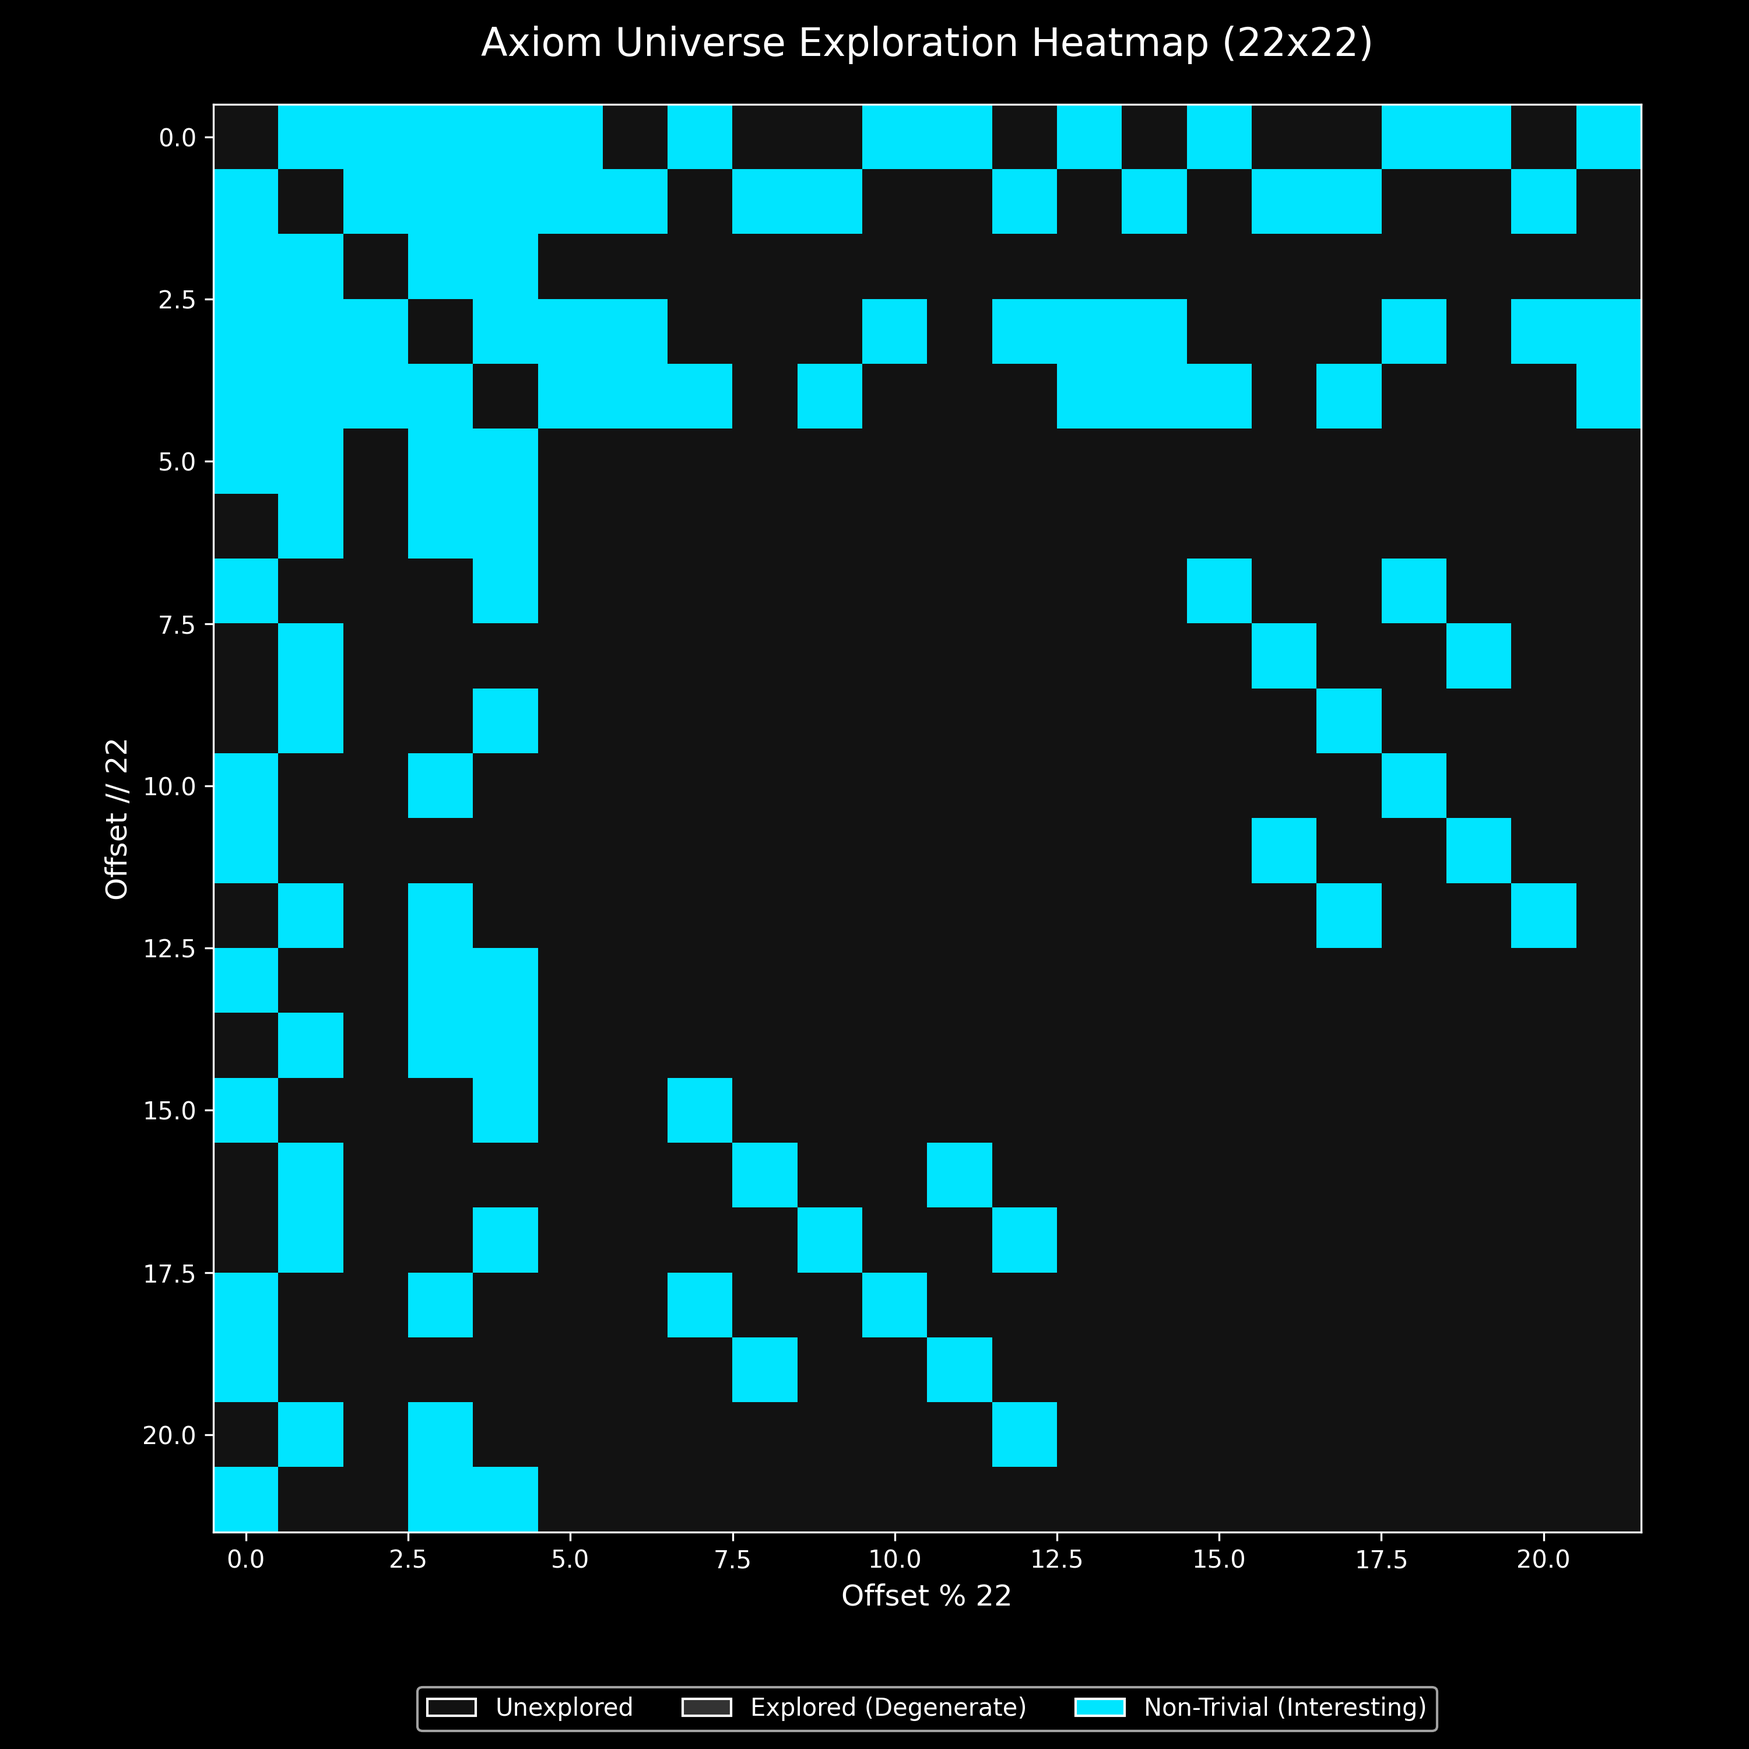
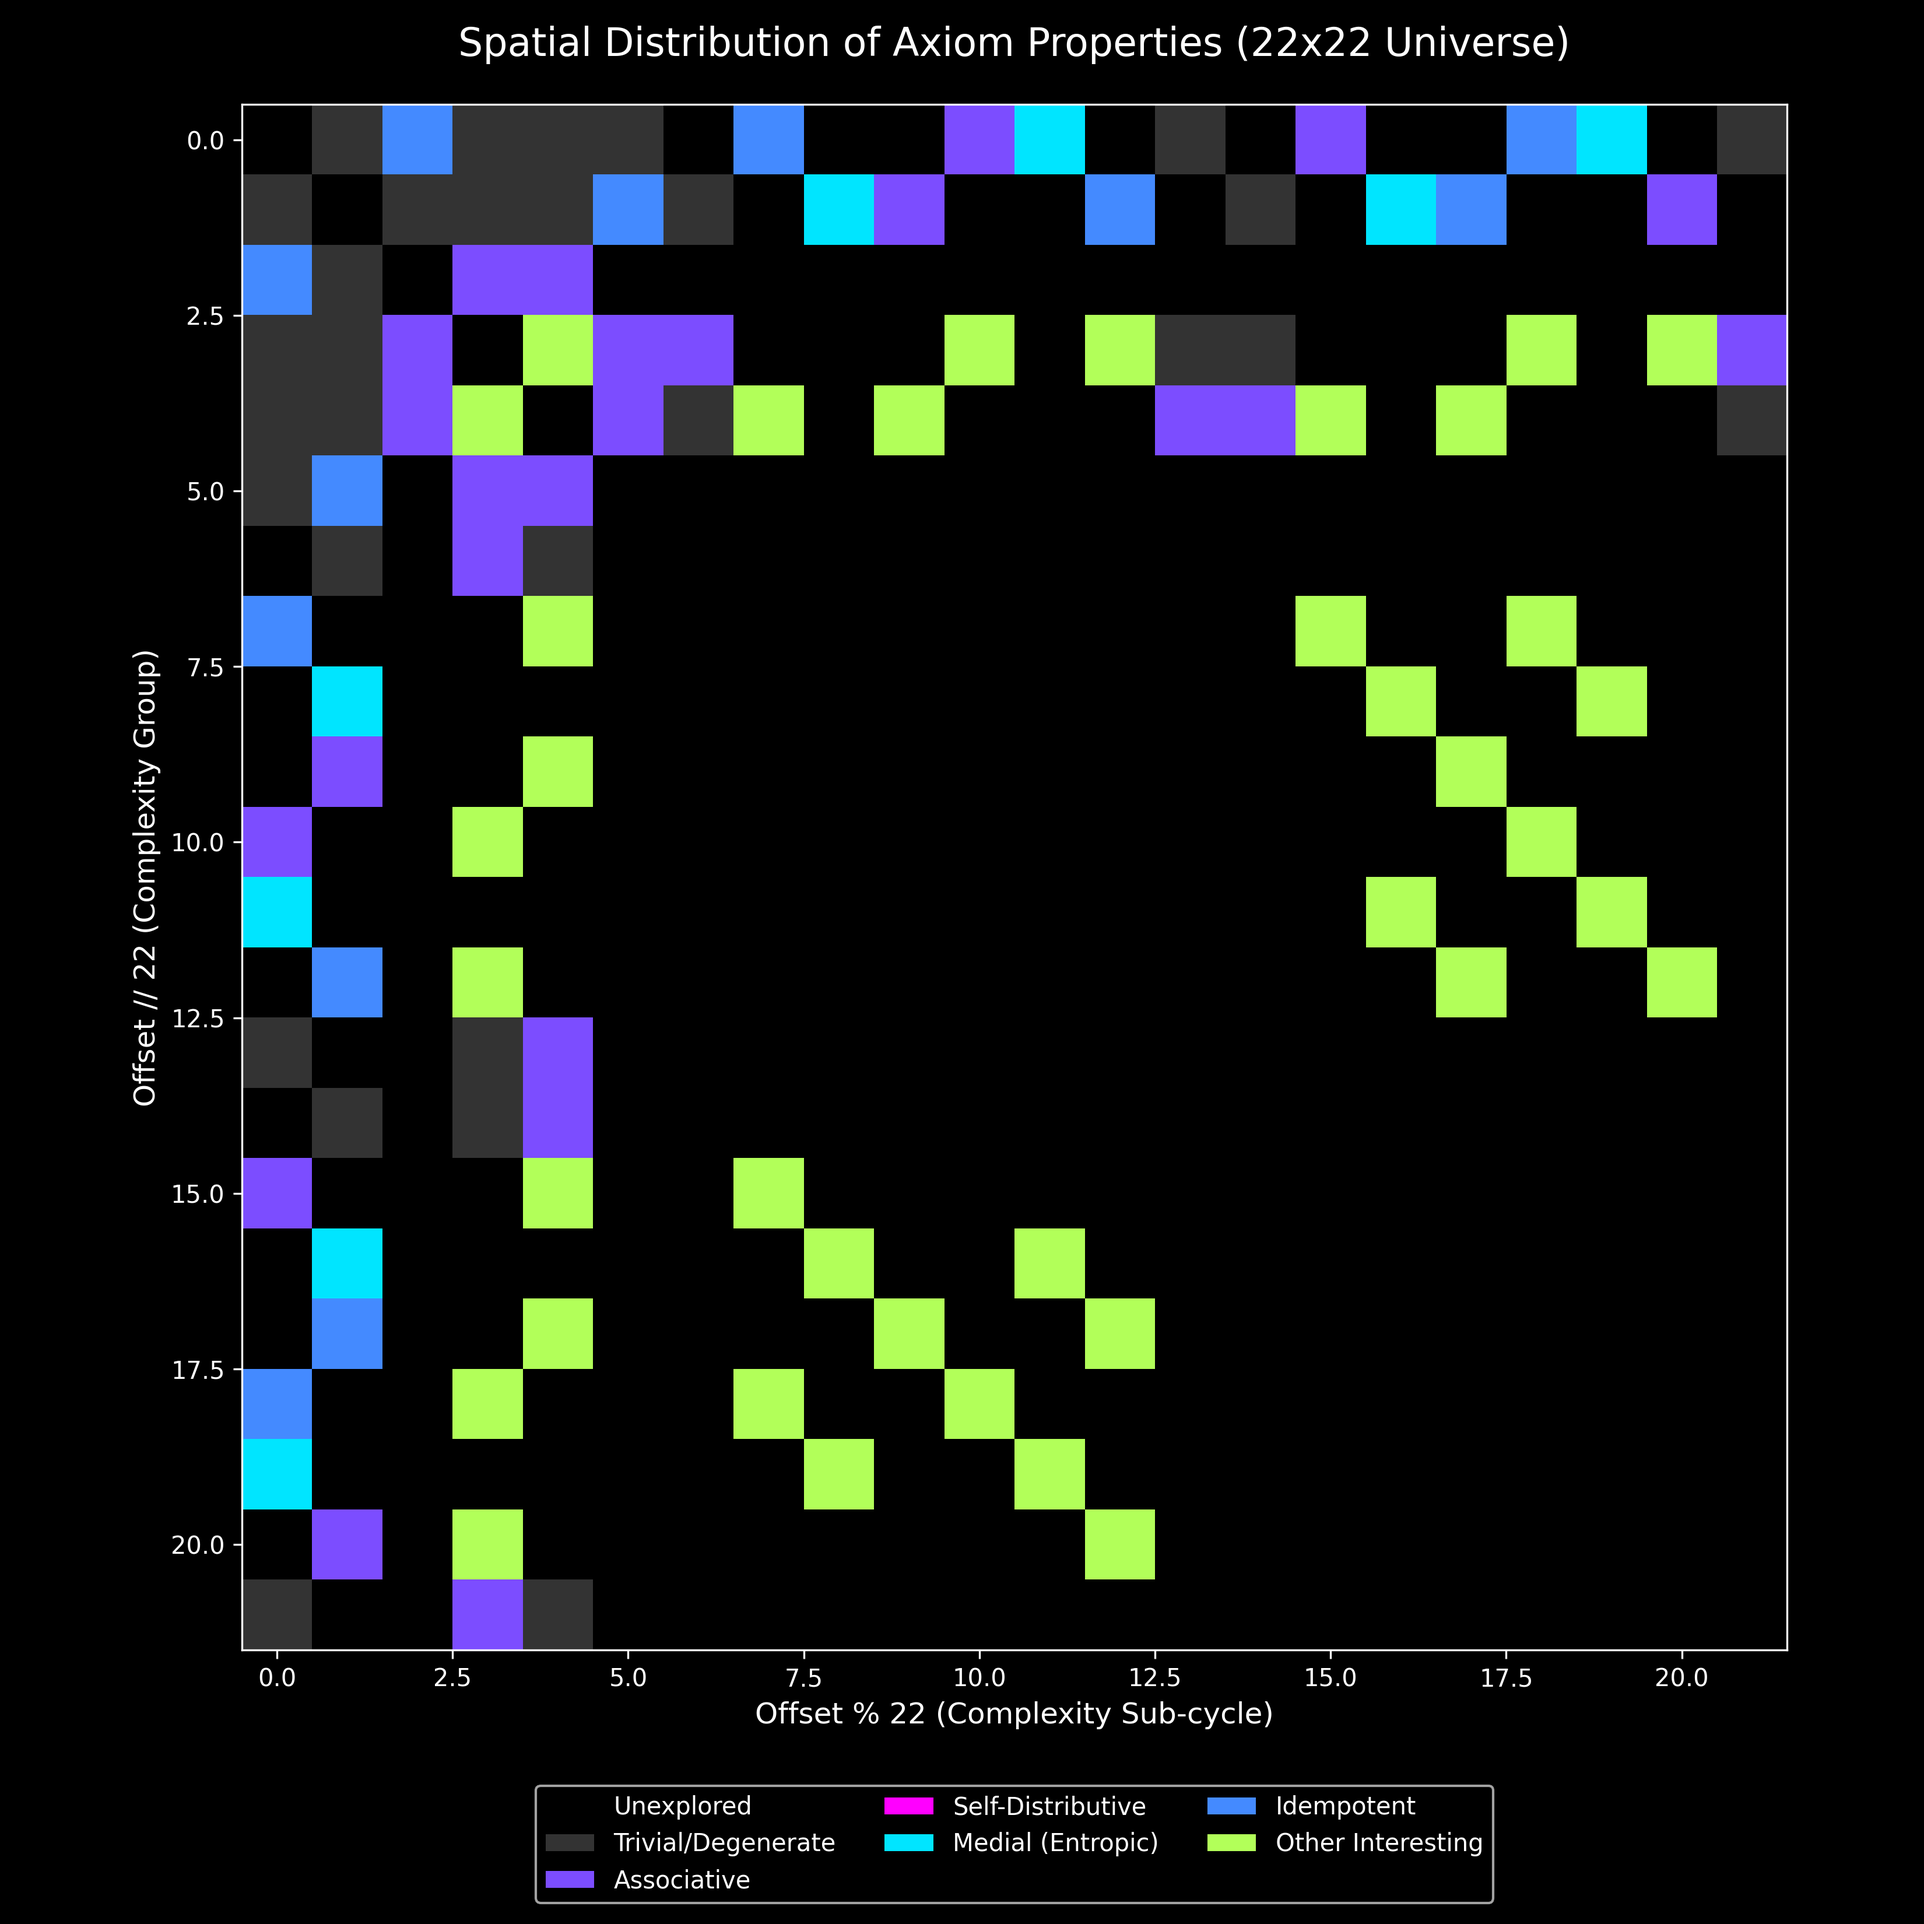
Upgrade heatmap to show categorical property distribution

diff --git a/reports/generate_heatmap.py b/reports/generate_heatmap.py
@@ -8,7 +8,6 @@ import os
 def generate_heatmap(root_dir, output_path):
     # 1. Build Axiom -> Index mapping from agent_log
     axiom_to_index = {}
-    explored_indices = set()
     
     log_path = Path(root_dir) / "agent_log.jsonl"
     if log_path.exists():
@@ -22,12 +21,32 @@ def generate_heatmap(root_dir, output_path):
                             ax_str = f"{ax['left']} = {ax['right']}"
                             idx = offset + i
                             axiom_to_index[ax_str] = idx
-                            explored_indices.add(idx)
                 except:
                     continue
 
-    # 2. Identify Non-Trivial Axioms from results.jsonl
-    interesting_indices = set()
+    # 2. Identify Explored and Categorize Interesting Indices
+    # 0: Unexplored, 1: Trivial/Degenerate, 2: Associative, 3: Self-Dist, 4: Medial, 5: Idempotent, 6: Other
+    grid_data = np.zeros(484)
+    explored_indices = set()
+    
+    if log_path.exists():
+        with open(log_path, 'r') as f:
+            for line in f:
+                try:
+                    data = json.loads(line)
+                    if data.get('event') == 'select':
+                        for ax in data['axioms']:
+                            ax_str = f"{ax['left']} = {ax['right']}"
+                            if ax_str in axiom_to_index:
+                                grid_data[axiom_to_index[ax_str]] = 1
+                    if data.get('event') == 'interpret':
+                        ax = data['axiom']
+                        ax_str = f"{ax['left']} = {ax['right']}"
+                        if ax_str in axiom_to_index:
+                            grid_data[axiom_to_index[ax_str]] = 1
+                except:
+                    continue
+
     root_path = Path(root_dir)
     for res_file in root_path.glob("**/results.jsonl"):
         with open(res_file, 'r') as f:
@@ -35,60 +54,65 @@ def generate_heatmap(root_dir, output_path):
                 try:
                     data = json.loads(line)
                     dossier = data.get('dossier', data)
-                    ax_str = f"{dossier['axiom']['left']} = {dossier['axiom']['right']}"
+                    ax = dossier['axiom']
+                    ax_str = f"{ax['left']} = {ax['right']}"
                     
-                    # Extract confirmed properties
+                    if ax_str not in axiom_to_index: continue
+                    idx = axiom_to_index[ax_str]
+
                     confirmed = []
                     if 'properties' in dossier:
                         confirmed = [p['name'] for p in dossier['properties'] if p.get('status') == 'confirmed']
                     elif 'implications' in dossier:
                         confirmed = [i['theory'] for i in dossier['implications'] if i.get('status') == 'confirmed']
                     
-                    if confirmed and ax_str in axiom_to_index:
-                        interesting_indices.add(axiom_to_index[ax_str])
+                    if not confirmed:
+                        grid_data[idx] = 1 # Mark as trivial
+                        continue
+
+                    # Precedence: Associative > Self-Dist > Medial > Idempotent > Other
+                    if 'associative' in confirmed: grid_data[idx] = 2
+                    elif 'left_self_distributive' in confirmed or 'right_self_distributive' in confirmed: grid_data[idx] = 3
+                    elif 'medial' in confirmed: grid_data[idx] = 4
+                    elif 'idempotent' in confirmed: grid_data[idx] = 5
+                    else: grid_data[idx] = 6
                 except:
                     continue
 
     # 3. Construct 22x22 Grid
-    # 0 = Unexplored, 1 = Explored (Trivial), 2 = Interesting
-    grid = np.zeros((22, 22))
-    for idx in range(484):
-        r, c = divmod(idx, 22)
-        if idx in interesting_indices:
-            grid[r, c] = 2
-        elif idx in explored_indices:
-            grid[r, c] = 1
-        else:
-            grid[r, c] = 0
+    grid = grid_data.reshape((22, 22))
 
     # 4. Plot Heatmap
-    plt.figure(figsize=(10, 10))
+    plt.figure(figsize=(11, 11))
     plt.style.use('dark_background')
     
-    # Custom colormap: Black (Unexplored), Gray (Trivial), Cyan (Interesting)
     from matplotlib.colors import ListedColormap
-    cmap = ListedColormap(['#121212', '#333333', '#00E5FF'])
+    # Colors: Black, Gray, Purple (Assoc), Magenta (Dist), Cyan (Medial), Blue (Idem), Green (Other)
+    colors = ['#000000', '#333333', '#7C4DFF', '#FF00FF', '#00E5FF', '#448AFF', '#B2FF59']
+    cmap = ListedColormap(colors)
     
     plt.imshow(grid, cmap=cmap, interpolation='nearest')
     
-    # Add title and labels
-    plt.title("Axiom Universe Exploration Heatmap (22x22)", fontsize=16, pad=20)
-    plt.xlabel("Offset % 22", fontsize=12)
-    plt.ylabel("Offset // 22", fontsize=12)
+    plt.title("Spatial Distribution of Axiom Properties (22x22 Universe)", fontsize=16, pad=20)
+    plt.xlabel("Offset % 22 (Complexity Sub-cycle)", fontsize=12)
+    plt.ylabel("Offset // 22 (Complexity Group)", fontsize=12)
     
-    # Add legend
     from matplotlib.patches import Patch
     legend_elements = [
-        Patch(facecolor='#121212', edgecolor='white', label='Unexplored'),
-        Patch(facecolor='#333333', edgecolor='white', label='Explored (Degenerate)'),
-        Patch(facecolor='#00E5FF', edgecolor='white', label='Non-Trivial (Interesting)')
+        Patch(facecolor='#000000', label='Unexplored'),
+        Patch(facecolor='#333333', label='Trivial/Degenerate'),
+        Patch(facecolor='#7C4DFF', label='Associative'),
+        Patch(facecolor='#FF00FF', label='Self-Distributive'),
+        Patch(facecolor='#00E5FF', label='Medial (Entropic)'),
+        Patch(facecolor='#448AFF', label='Idempotent'),
+        Patch(facecolor='#B2FF59', label='Other Interesting')
     ]
-    plt.legend(handles=legend_elements, loc='upper center', bbox_to_anchor=(0.5, -0.1), ncol=3)
+    plt.legend(handles=legend_elements, loc='upper center', bbox_to_anchor=(0.5, -0.08), ncol=3)
 
     plt.tight_layout()
     plt.savefig(output_path, dpi=300)
     plt.close()
-    print(f"Heatmap saved to {output_path}")
+    print(f"Enhanced Heatmap saved to {output_path}")
 
 if __name__ == "__main__":
     generate_heatmap("/Volumes/Crucial X6/MacBook/Code/axioms/runs", "/Volumes/Crucial X6/MacBook/Code/axioms/reports/exploration_heatmap.png")
